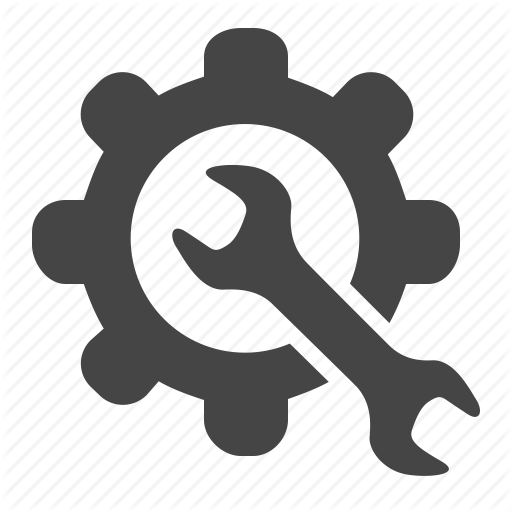
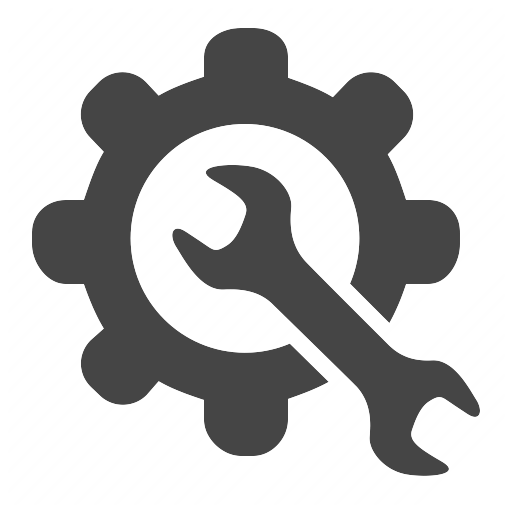
menu cambiado y show messages arreglado

diff --git a/src/es/eroski/intrachat/models/MessageModel.java b/src/es/eroski/intrachat/models/MessageModel.java
@@ -65,7 +65,7 @@ public class MessageModel extends Conector {
 		try {
 			Statement st = this.conexion.createStatement();
 			ResultSet rs = st.executeQuery(
-					"SELECT messages.*, users.*, departments.* from (messages join users on messages.id_sender = users.id_user ) join departments on users.id_department = departments.id_department where messages.id_sender='"
+					"SELECT messages.*, users.*, departments.* from (messages join users on messages.id_receiver = users.id_user ) join departments on users.id_department = departments.id_department where messages.id_sender='"
 							+ id_user + "'");
 			while (rs.next()) {
 
@@ -78,7 +78,7 @@ public class MessageModel extends Conector {
 				message.setDate(rs.getDate("messages.date"));
 
 				User receiver = new User();
-				receiver.setId_user(rs.getInt("users.id_user"));
+				receiver.setId_user(rs.getInt("messages.id_receiver"));
 				receiver.setPassword(rs.getString("users.password"));
 				receiver.setName(rs.getString("users.name"));
 				receiver.setLast_name(rs.getString("users.last_name"));
@@ -108,7 +108,7 @@ public class MessageModel extends Conector {
 		try {
 			Statement st = this.conexion.createStatement();
 			ResultSet rs = st.executeQuery(
-					"SELECT messages.*, users.*, departments.* from (messages join users on messages.id_receiver = users.id_user ) join departments on users.id_department = departments.id_department where messages.id_receiver='"
+					"SELECT messages.*, users.*, departments.* from (messages join users on messages.id_sender = users.id_user ) join departments on users.id_department = departments.id_department where messages.id_receiver='"
 							+ id_user + "'");
 			while (rs.next()) {
 
@@ -121,7 +121,7 @@ public class MessageModel extends Conector {
 				message.setDate(rs.getDate("messages.date"));
 
 				User sender = new User();
-				sender.setId_user(rs.getInt("users.id_user"));
+				sender.setId_user(rs.getInt("messages.id_sender"));
 				sender.setPassword(rs.getString("users.password"));
 				sender.setName(rs.getString("users.name"));
 				sender.setLast_name(rs.getString("users.last_name"));
